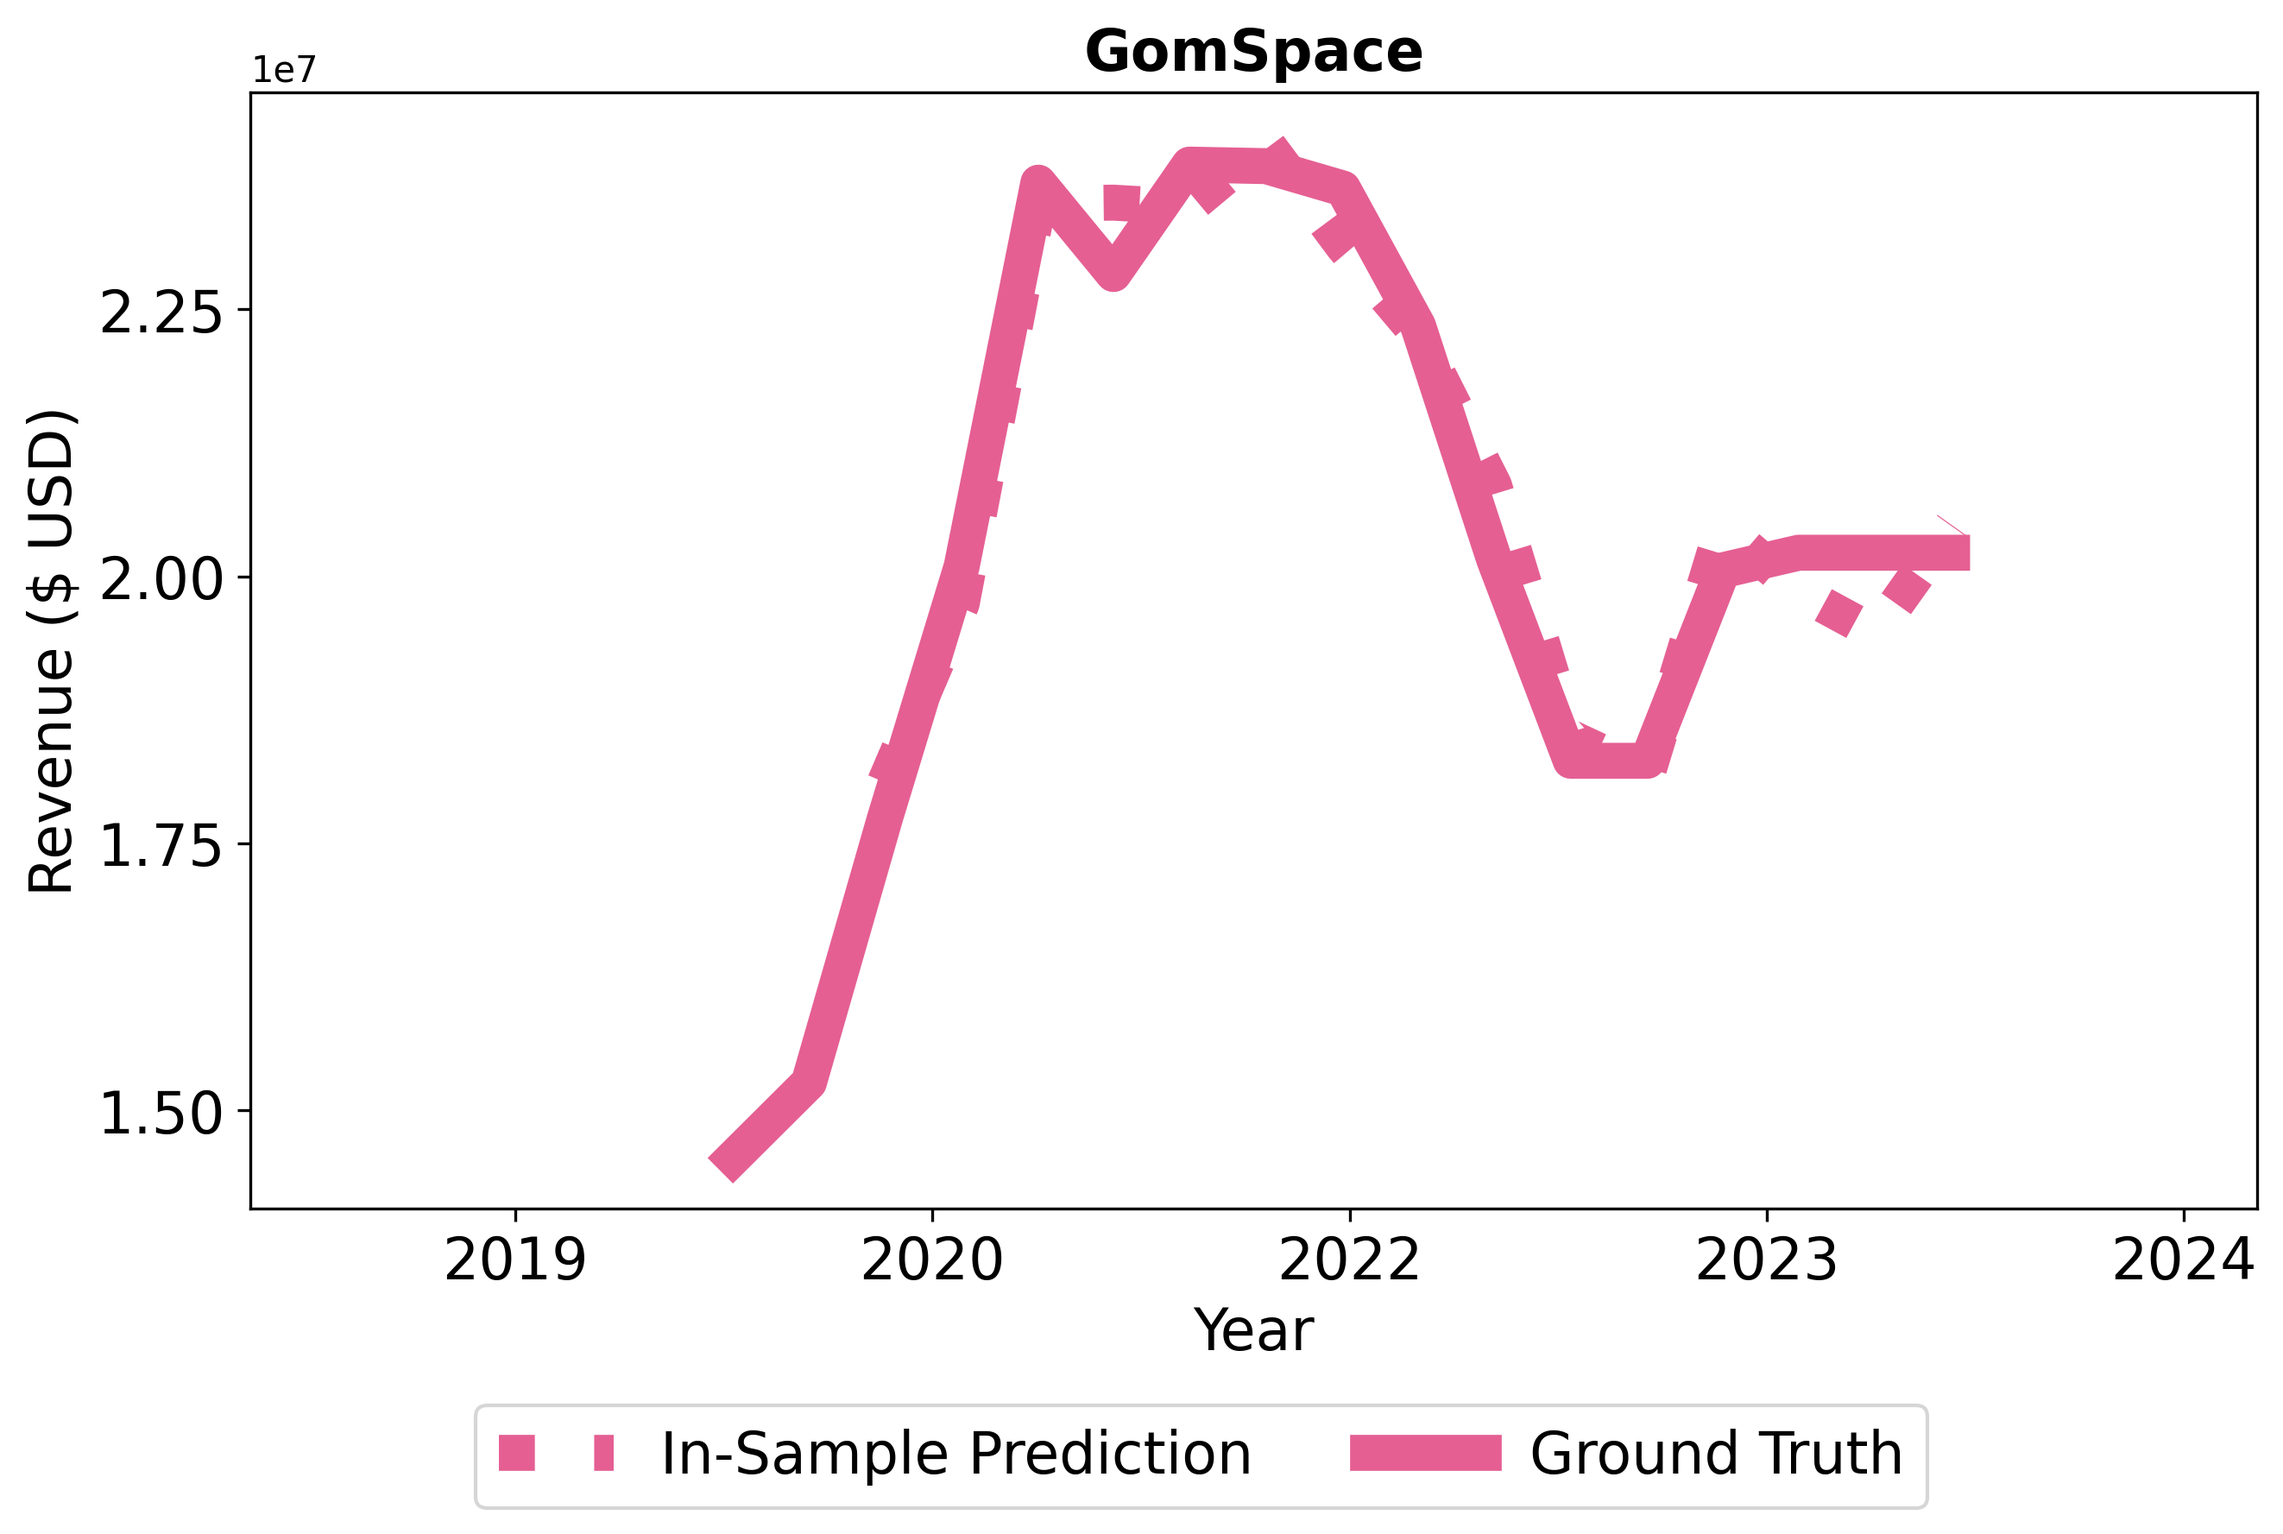
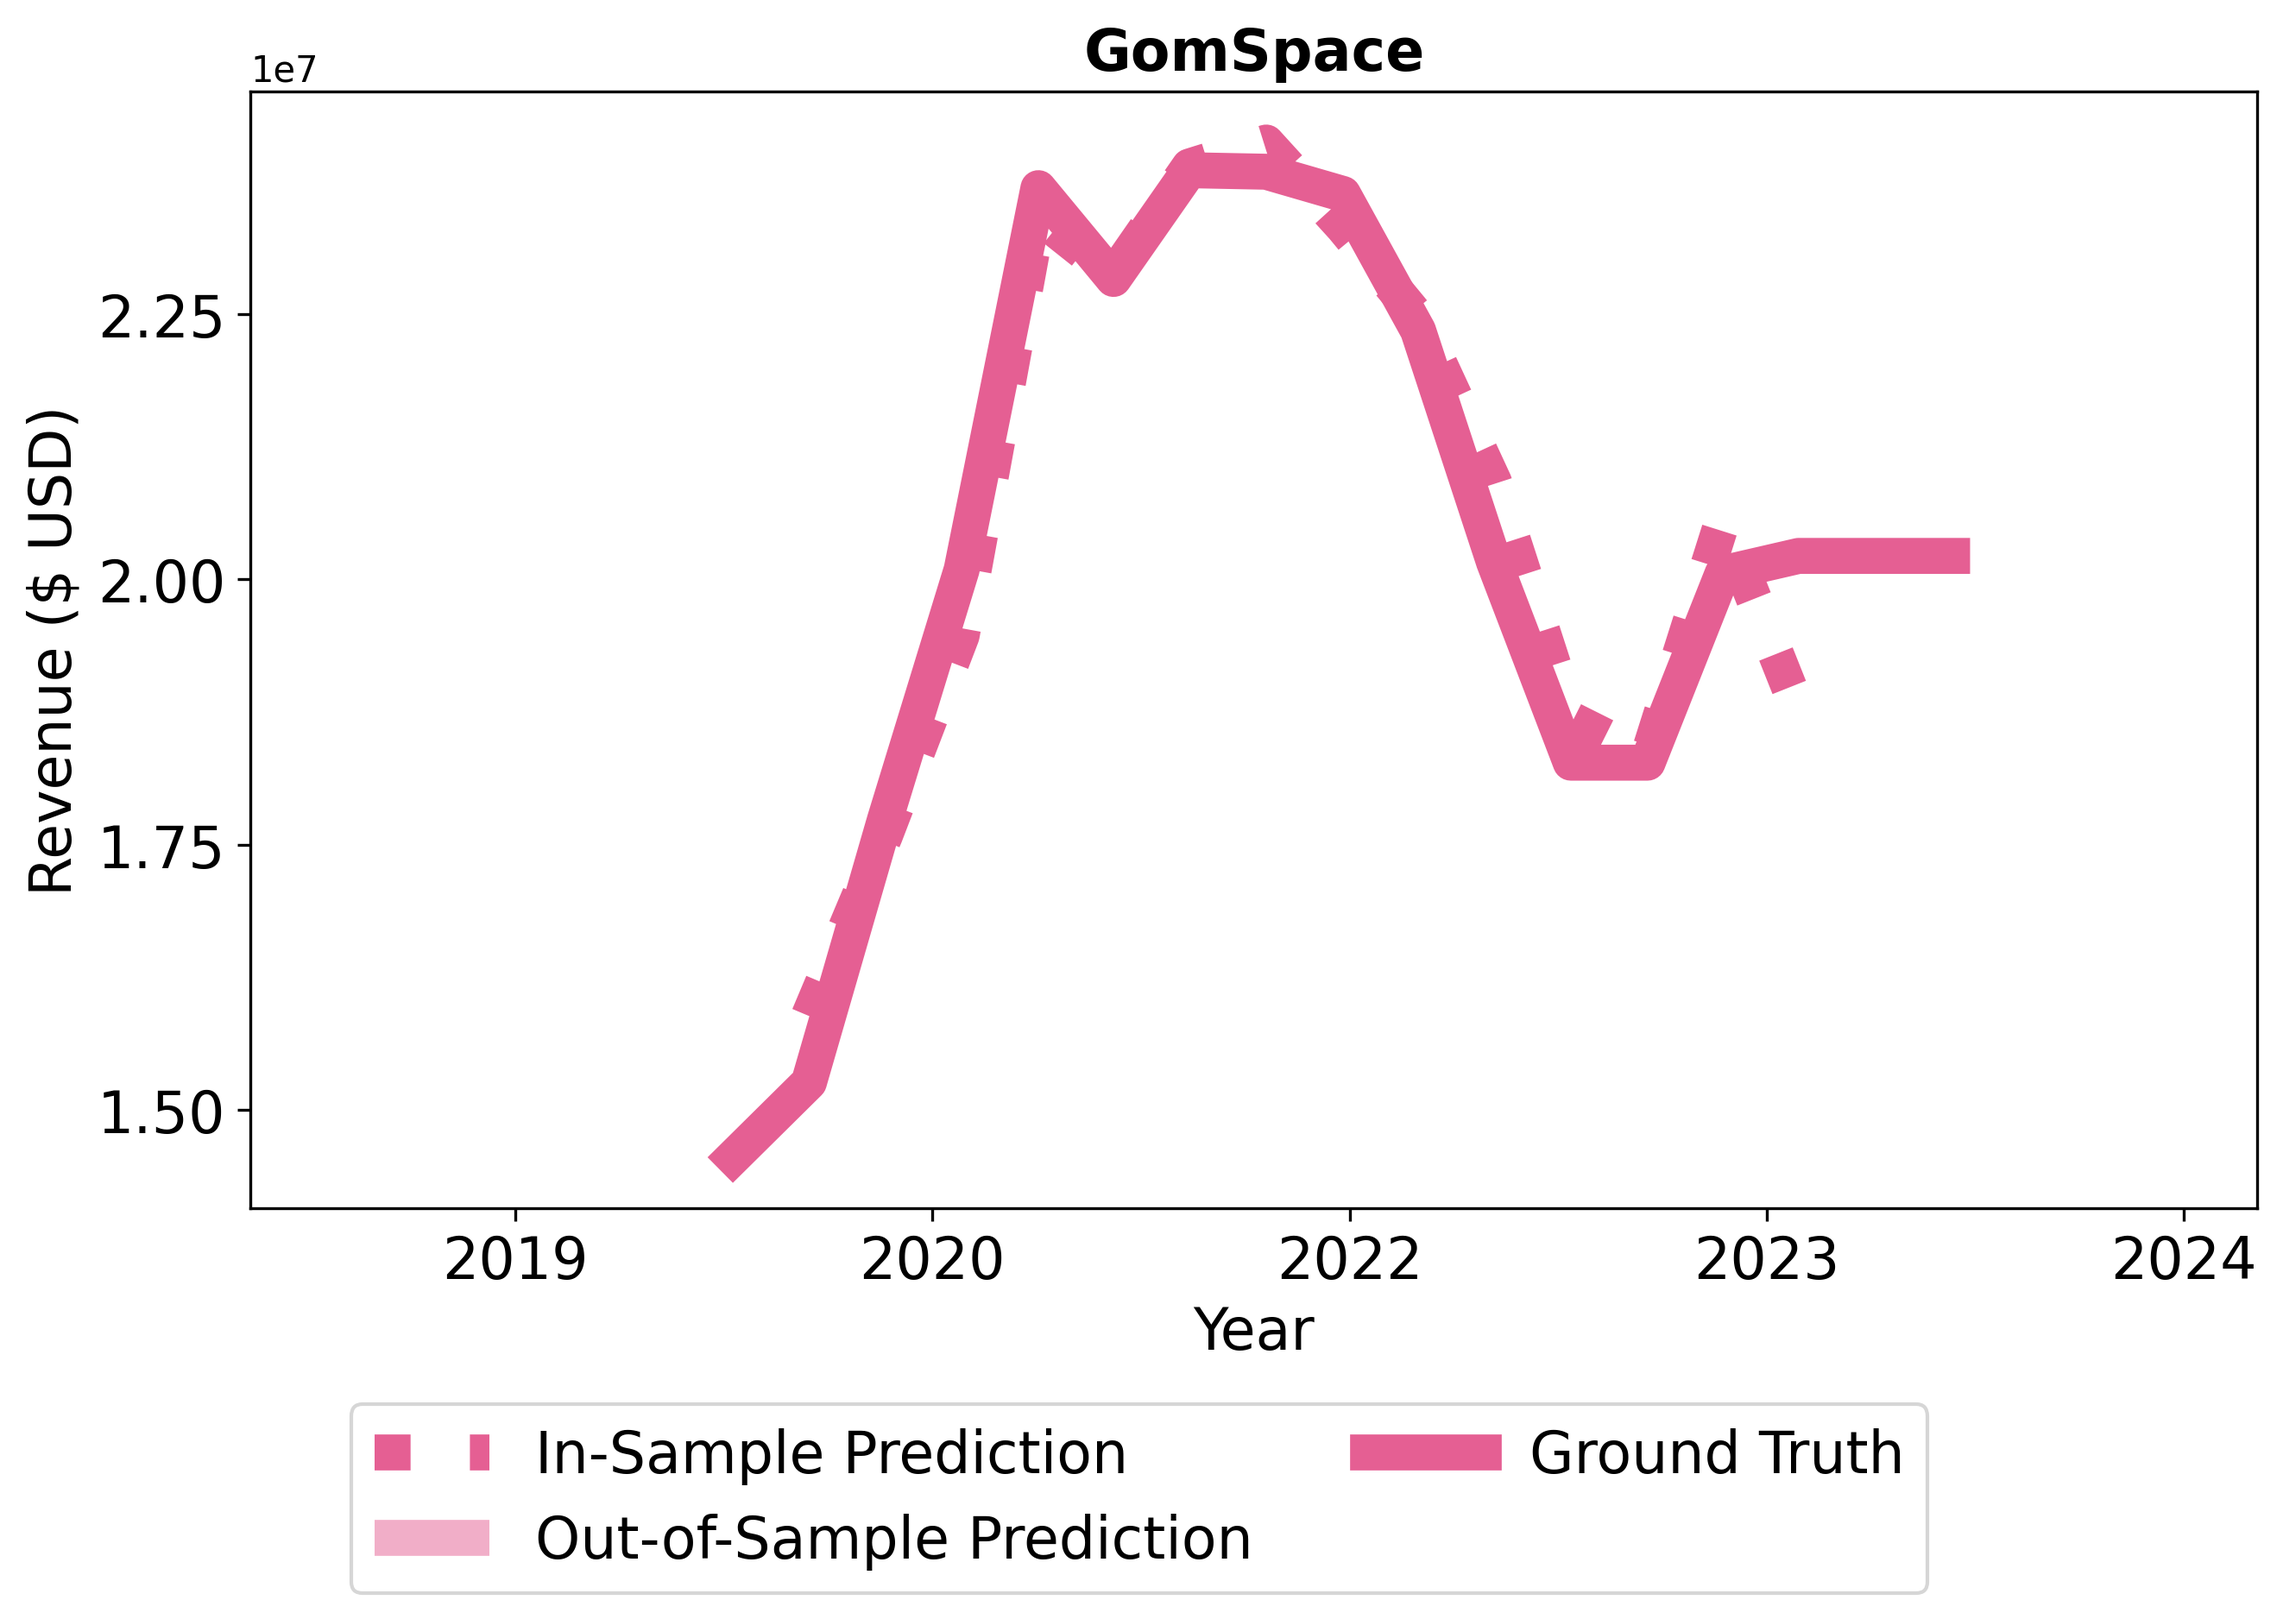
[ADD] adding out-of-sample prediction

diff --git a/src/process.py b/src/process.py
@@ -1,4 +1,5 @@
 import pandas as pd
+from pandas.tseries.offsets import DateOffset
 import numpy as np
 import json
 import matplotlib.pyplot as plt
@@ -88,6 +89,16 @@ def transformFinancialMetrics(company, filteredData):
 
     return data
 
+# Function to generate the next n quarters after a given start date
+def generate_next_quarters(start_date, n):
+    quarters = []
+    current_date = start_date
+    for _ in range(n):
+        current_date = (current_date + DateOffset(months=3)).replace(day=1) - pd.DateOffset(days=1)
+        quarters.append(current_date)
+        current_date = current_date + pd.DateOffset(months=3)
+    return quarters
+
 # Lookup company-specific parameters from dictionary (plotting style, name, filename)
 metadataPath = './config/company_metadata.json'
 companyMetadata = json.load(open(metadataPath))
@@ -101,6 +112,7 @@ eurExchangeRatePath = './config/usd-eur-exchange-rate-history.csv'
 eurExchangeRateData = pd.read_csv(eurExchangeRatePath, header=None, names=['Date', 'Value'])
 eurExchangeRateData['Date'] = pd.to_datetime(eurExchangeRateData['Date'])
 
+# ACF/PACF Plots
 fig1, ax1 = plt.subplots(2, 3, figsize=(12, 10), dpi=300)
 fig1.suptitle("ACF: Assets", fontsize=20)
 fig2, ax2 = plt.subplots(2, 3, figsize=(12, 10), dpi=300)
@@ -119,6 +131,7 @@ fig26, ax26 = plt.subplots(2, 3, figsize=(12, 10), dpi=300)
 fig26.suptitle("PACF: Revenue", fontsize=20)
 acf_list = [fig1, fig2, fig21, fig22, fig23, fig24, fig25, fig26]
 
+# KPI Plots
 fig3, ax3 = plt.subplots(figsize=(10, 7), dpi=300)
 fig4, ax4 = plt.subplots(figsize=(10, 7), dpi=300)
 fig5, ax5 = plt.subplots(figsize=(10, 7), dpi=300)
@@ -155,30 +168,35 @@ for i, company in enumerate(companyMetadata):
     stat, nonstat, error = getStationaryVariables(transformedData)
     # print("Stationary: ", stat)
     # print("Nonstationary: ", nonstat)
+
+    # Use 90% of the data for in-sample training and 10% for out-of-sample evaluation
+    split = int(np.ceil(0.1*len(transformedData['Quarter'])))
     if company != "Synspective":
-        frame = np.column_stack((transformedData["Total_Assets_USD"], transformedData["Total_Equity_USD"], transformedData["Total_Liabilities_USD"], transformedData["totalSatellites"]))
-        ardl_fit = ardl_model(transformedData["Revenue_USD"], frame, 10)
+        filtered_quarters = pd.to_datetime(transformedData['Quarter'])
 
-        # Forecast future values
+        # Determine the last quarter
+        last_quarter = filtered_quarters.max()
+        trainingFrame = np.column_stack((transformedData["Total_Assets_USD"][:-split], transformedData["Total_Equity_USD"][:-split], transformedData["Total_Liabilities_USD"][:-split], transformedData["totalSatellites"][:-split]))
+        testingFrame = np.column_stack((transformedData["Total_Assets_USD"][-split:], transformedData["Total_Equity_USD"][-split:], transformedData["Total_Liabilities_USD"][-split:], transformedData["totalSatellites"][-split:]))
+        ardl_fit = ardl_model(transformedData["Revenue_USD"][:-split], trainingFrame, 10)
+
         # In-Sample Prediction: Use the model to predict the underlying data
-        endDateTime = pd.to_datetime(transformedData["Quarter"].values[0])
-        startDateTime = pd.to_datetime(transformedData["Quarter"].values[-1])
-        forecast_end = startDateTime.strftime('%Y-%m-%d')
-        forecast_start = endDateTime.strftime('%Y-%m-%d')
-        # print(transformedData)
-        # inSamplePredictions = ardl_fit.predict(start=forecast_start, end=forecast_end)
-        inSamplePredictions = ardl_fit.predict(start=0, end=len(frame)-1)
+        inSamplePredictions = ardl_fit.predict(start=0, end=len(trainingFrame)-1)
+        # Out-of-Sample Forecasting: Use the model to forecast on unseen data
+        # Note, ardl_fit.predict will output same amount of data it was trained on, hence indexing up to [:split]
+        outSamplePredictions = ardl_fit.predict(exog_oos=testingFrame)[:split]
 
+        # print(filteredData["Quarter"])
         if company == "iQPS":
-            plotPredictions(fig12, ax12, company, filteredData["Quarter"], inSamplePredictions, transformedData["Revenue_USD"], companyMetadata)
+            plotPredictions(fig12, ax12, company, companyMetadata, filteredData["Quarter"], inSamplePredictions, outSamplePredictions, transformedData["Revenue_USD"], split)
         elif company == "GomSpace":
-            plotPredictions(fig13, ax13, company, filteredData["Quarter"], inSamplePredictions, transformedData["Revenue_USD"], companyMetadata)
+            plotPredictions(fig13, ax13, company, companyMetadata, filteredData["Quarter"], inSamplePredictions, outSamplePredictions, transformedData["Revenue_USD"], split)
         elif company == "Kleos Space":
-            plotPredictions(fig14, ax14, company, filteredData["Quarter"], inSamplePredictions, transformedData["Revenue_USD"], companyMetadata)
+            plotPredictions(fig14, ax14, company, companyMetadata, filteredData["Quarter"], inSamplePredictions, outSamplePredictions, transformedData["Revenue_USD"], split)
         elif company == "Planet Labs":
-            plotPredictions(fig15, ax15, company, filteredData["Quarter"], inSamplePredictions, transformedData["Revenue_USD"], companyMetadata)
+            plotPredictions(fig15, ax15, company, companyMetadata, filteredData["Quarter"], inSamplePredictions, outSamplePredictions, transformedData["Revenue_USD"], split)
         elif company == "Satellogic":
-            plotPredictions(fig16, ax16, company, filteredData["Quarter"], inSamplePredictions, transformedData["Revenue_USD"], companyMetadata)
+            plotPredictions(fig16, ax16, company, companyMetadata, filteredData["Quarter"], inSamplePredictions, outSamplePredictions, transformedData["Revenue_USD"], split)
 
         fig6 = plotKPIs(fig6, ax6, transformedData, "financialLeverage", companyMetadata, company, 'Financial Leverage')
         fig7 = plotKPIs(fig7, ax7, transformedData, "ROE", companyMetadata, company, 'Return on Equity')
@@ -187,9 +205,9 @@ for i, company in enumerate(companyMetadata):
         fig17 = plotKPIs(fig17, ax17, transformedData, "Revenue_USD", companyMetadata, company, 'Revenue ($USD)')
         plot_acf(transformedData["Revenue_USD"], lags=3, title=company, ax = ax25[i//3, i%3], color = 'red')
         plot_pacf(transformedData["Revenue_USD"], lags=2, title=company, ax = ax26[i//3, i%3], color = 'red')
-        plotPredictions(fig18, ax18[i//3, i%3], company, filteredData["Quarter"], inSamplePredictions, transformedData["Revenue_USD"], companyMetadata, plotEverything=True)
+        plotPredictions(fig18, ax18[i//3, i%3], company, companyMetadata, filteredData["Quarter"], inSamplePredictions, outSamplePredictions, transformedData["Revenue_USD"], split, plotEverything=True)
     else:
-        plotPredictions(fig18, ax18[i//3, i%3], company, plotEverything=True)
+        plotPredictions(fig18, ax18[i//3, i%3], company, companyMetadata, plotEverything=True)
 
     plot_acf(transformedData["Total_Assets_USD"], lags=3, title=company, ax = ax1[i//3, i%3], color = 'red')
     plot_pacf(transformedData["Total_Assets_USD"], lags=2, title=company, ax = ax2[i//3, i%3], color = 'red')

diff --git a/src/plot_utils.py b/src/plot_utils.py
@@ -31,7 +31,7 @@ def plotKPIs(fig, ax, data, key, companyMetadata, company, ylabel):
     plt.rcParams['legend.title_fontsize'] = '16'
     return fig
 
-def plotPredictions(fig, ax, company, time=None, prediction=None, ground_truth=None, companyMetadata=None, plotEverything=False):
+def plotPredictions(fig, ax, company, companyMetadata, time=None, inSamplePrediction=None, outSamplePrediction=None, ground_truth=None, split=None, plotEverything=False):
     size = 22
     if company != "Synspective" and not plotEverything:
         company_color = np.array(companyMetadata[company]["color"]) / 255
@@ -42,7 +42,8 @@ def plotPredictions(fig, ax, company, time=None, prediction=None, ground_truth=N
         ax.xaxis.set_major_locator(ticker.MaxNLocator(nbins=5))
         ax.yaxis.set_major_locator(ticker.MaxNLocator(nbins=5))
         ax.set_xlim([pd.to_datetime('2018-06-01'), pd.to_datetime('2024-12-31')])
-        ax.plot(time, prediction, color=company_color, linestyle="dotted", label="In-Sample Prediction", linewidth=10)
+        ax.plot(time[:-split], inSamplePrediction, color=company_color, linestyle="dotted", label="In-Sample Prediction", linewidth=10)
+        ax.plot(time[-split:], outSamplePrediction, color=company_color, alpha=0.5, linestyle="dashed", label="Out-of-Sample Prediction", linewidth=10)
         ax.plot(time, ground_truth, color=company_color, linestyle="solid", label="Ground Truth", linewidth=10)
         ax.legend(ncol=2, bbox_to_anchor=(0.85, -0.15), fancybox=True, fontsize='16', frameon=True)
         box = ax.get_position()
@@ -58,7 +59,8 @@ def plotPredictions(fig, ax, company, time=None, prediction=None, ground_truth=N
         ax.set_yscale('log')
         ax.set_xlim([pd.to_datetime('2018-06-01'), pd.to_datetime('2024-12-31')])
         ax.set_ylim([1, 10**9])
-        ax.plot(time, prediction, color=company_color, linestyle="dotted", linewidth=12)
+        ax.plot(time[:-split], inSamplePrediction, color=company_color, linestyle="dotted", linewidth=12)
+        ax.plot(time[-split:], outSamplePrediction, color=company_color, alpha=0.5, linestyle="dashed", linewidth=12)
         ax.plot(time, ground_truth, color=company_color, linestyle="solid", linewidth=12)
     elif company == "Synspective" and plotEverything:
         ax.set_xticks([])
@@ -71,9 +73,10 @@ def plotPredictions(fig, ax, company, time=None, prediction=None, ground_truth=N
         ax.spines['right'].set_visible(False)
         ax.spines['left'].set_visible(False)
         ax.spines['bottom'].set_visible(False)
-        line1, = ax.plot([], [], color='k', linestyle="dotted", linewidth=12, label='In-Sample Prediction')  # Red dotted line
-        line2, = ax.plot([], [], color='k', linestyle="solid", linewidth=12, label='Ground Truth Data')     # Blue solid line
+        line1, = ax.plot([], [], color='k', linestyle="dotted", linewidth=12, label='In-Sample Prediction')
+        line2, = ax.plot([], [], color='k', linestyle="dashed", alpha=0.5, linewidth=12, label='Out-of-Sample Prediction')
+        line3, = ax.plot([], [], color='k', linestyle="solid", linewidth=12, label='Ground Truth Data')
         # Add the legend with specified labels
-        fig.legend([line1, line2], ['In-Sample Prediction', 'Ground Truth Data'],
+        fig.legend([line1, line2, line3], ['In-Sample Prediction', 'Out-of-Sample Prediction', 'Ground Truth Data'],
            loc='upper center', bbox_to_anchor=(0.5, 0.08), ncol=2, prop={'size': size})
     return fig
